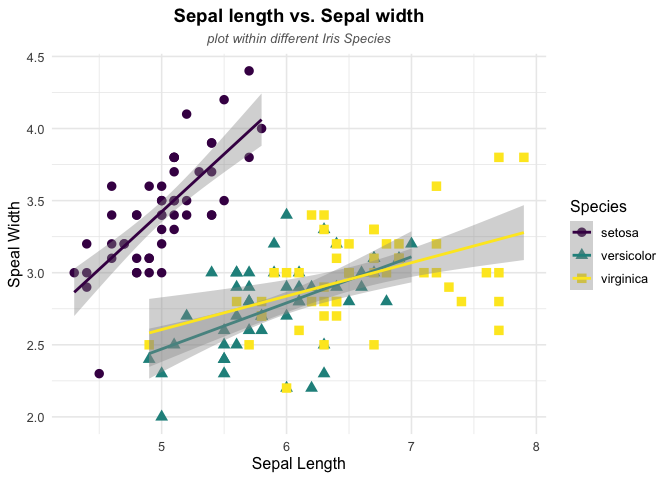
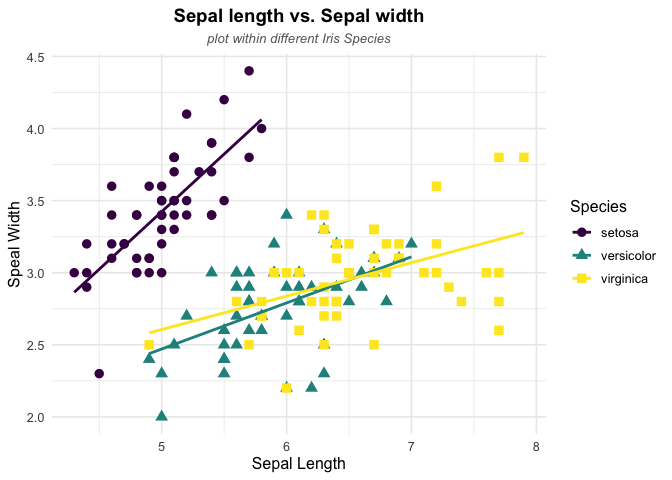
Change a few graphs

Changed region(s): [[0.2188, 0.4375, 0.7812, 0.7812], [0.0938, 0.1875, 0.4062, 0.6562], [0.8438, 0.4375, 0.9062, 0.625]]

diff --git a/Styling-Scatterplot.md b/Styling-Scatterplot.md
@@ -146,6 +146,9 @@ ggplot(iris, aes(x=Sepal.Length, y=Sepal.Width,
 
   - `Shape` is also a common way to help us to see relationship between
     two variables within different groups.
+  - Additionally, you can always change the shape of the points. Check
+    [here](https://www.datanovia.com/en/blog/ggplot-point-shapes-best-tips/)
+    for more ideas.
 
 <!-- end list -->
 
@@ -171,11 +174,10 @@ ggplot(iris, aes(x=Sepal.Length, y=Sepal.Width,
 ggplot(iris, aes(x=Sepal.Length, y=Sepal.Width, 
                  ## Where size comes in 
                  size=Species)) + 
-    geom_point(color="firebrick1") 
+    geom_point(shape = 18, color = "#FC4E07") 
 ```
 
 ![](Styling-Scatterplot_files/figure-gfm/unnamed-chunk-7-1.png)<!-- -->
-\*\*\*
 
 #### <span style="color:orange"> **Put all the options together** </span>
 
@@ -183,7 +185,7 @@ ggplot(iris, aes(x=Sepal.Length, y=Sepal.Width,
     `size` together to get prettier plot.
   - Personally, mixing more than two can make your graph a little bit
     messy, choosing to mix two seems to be a nice choice. However, do
-    whatever you perfer\!\!\!
+    whatever you perfer to be your style\!\!\!
 
 <!-- end list -->
 
@@ -192,7 +194,8 @@ ggplot(iris, aes(x=Sepal.Length, y=Sepal.Width,
 ggplot(iris, aes(x=Sepal.Length, y=Sepal.Width, 
                  col=Species,
                  shape=Species)) + 
-  geom_point(size=3) +
+  geom_point() +
+  scale_shape_manual(values = c(3, 10, 16))+
   ## Using viridis package here
   scale_color_viridis(discrete=TRUE,option = "D") 
 ```
@@ -266,8 +269,7 @@ to your audiences.
   - Both `labs()` and `ggtitle()` are great tools to deal with labelling
     information. In the following code, we provide the example how to
     use `labs()` to label the all the things that we need. Take a look
-    \[here\]
-    (<https://www.r-graph-gallery.com/289-control-ggplot2-title.html>)
+    [here](https://www.r-graph-gallery.com/289-control-ggplot2-title.html)
     if you want to learn how to use `ggtitle()`.
 
 <!-- end list -->
@@ -356,7 +358,7 @@ ggplot(iris, aes(x=Sepal.Length, y=Sepal.Width,
   theme (plot.title = element_text(color = "black", size = 14, face = "bold"),
          plot.subtitle = element_text(color = "grey40",size = 10, face = 'italic')) +
   ## Where linear trend + confidence interval come in
-  geom_smooth(method = 'lm', se=TRUE)
+  geom_smooth(method = 'lm',se=FALSE)
 ```
 
 ![](Styling-Scatterplot_files/figure-gfm/unnamed-chunk-13-1.png)<!-- -->
@@ -391,7 +393,7 @@ ggplot(iris, aes(x=Sepal.Length, y=Sepal.Width,
         plot.subtitle = element_text(hjust = 0.5))+
   theme (plot.title = element_text(color = "black", size = 14, face = "bold"),
          plot.subtitle = element_text(color = "grey40",size = 10, face = 'italic')) +
-  geom_smooth(se=TRUE)
+  geom_smooth(se=FALSE)
 ```
 
 ![](Styling-Scatterplot_files/figure-gfm/unnamed-chunk-14-1.png)<!-- -->
